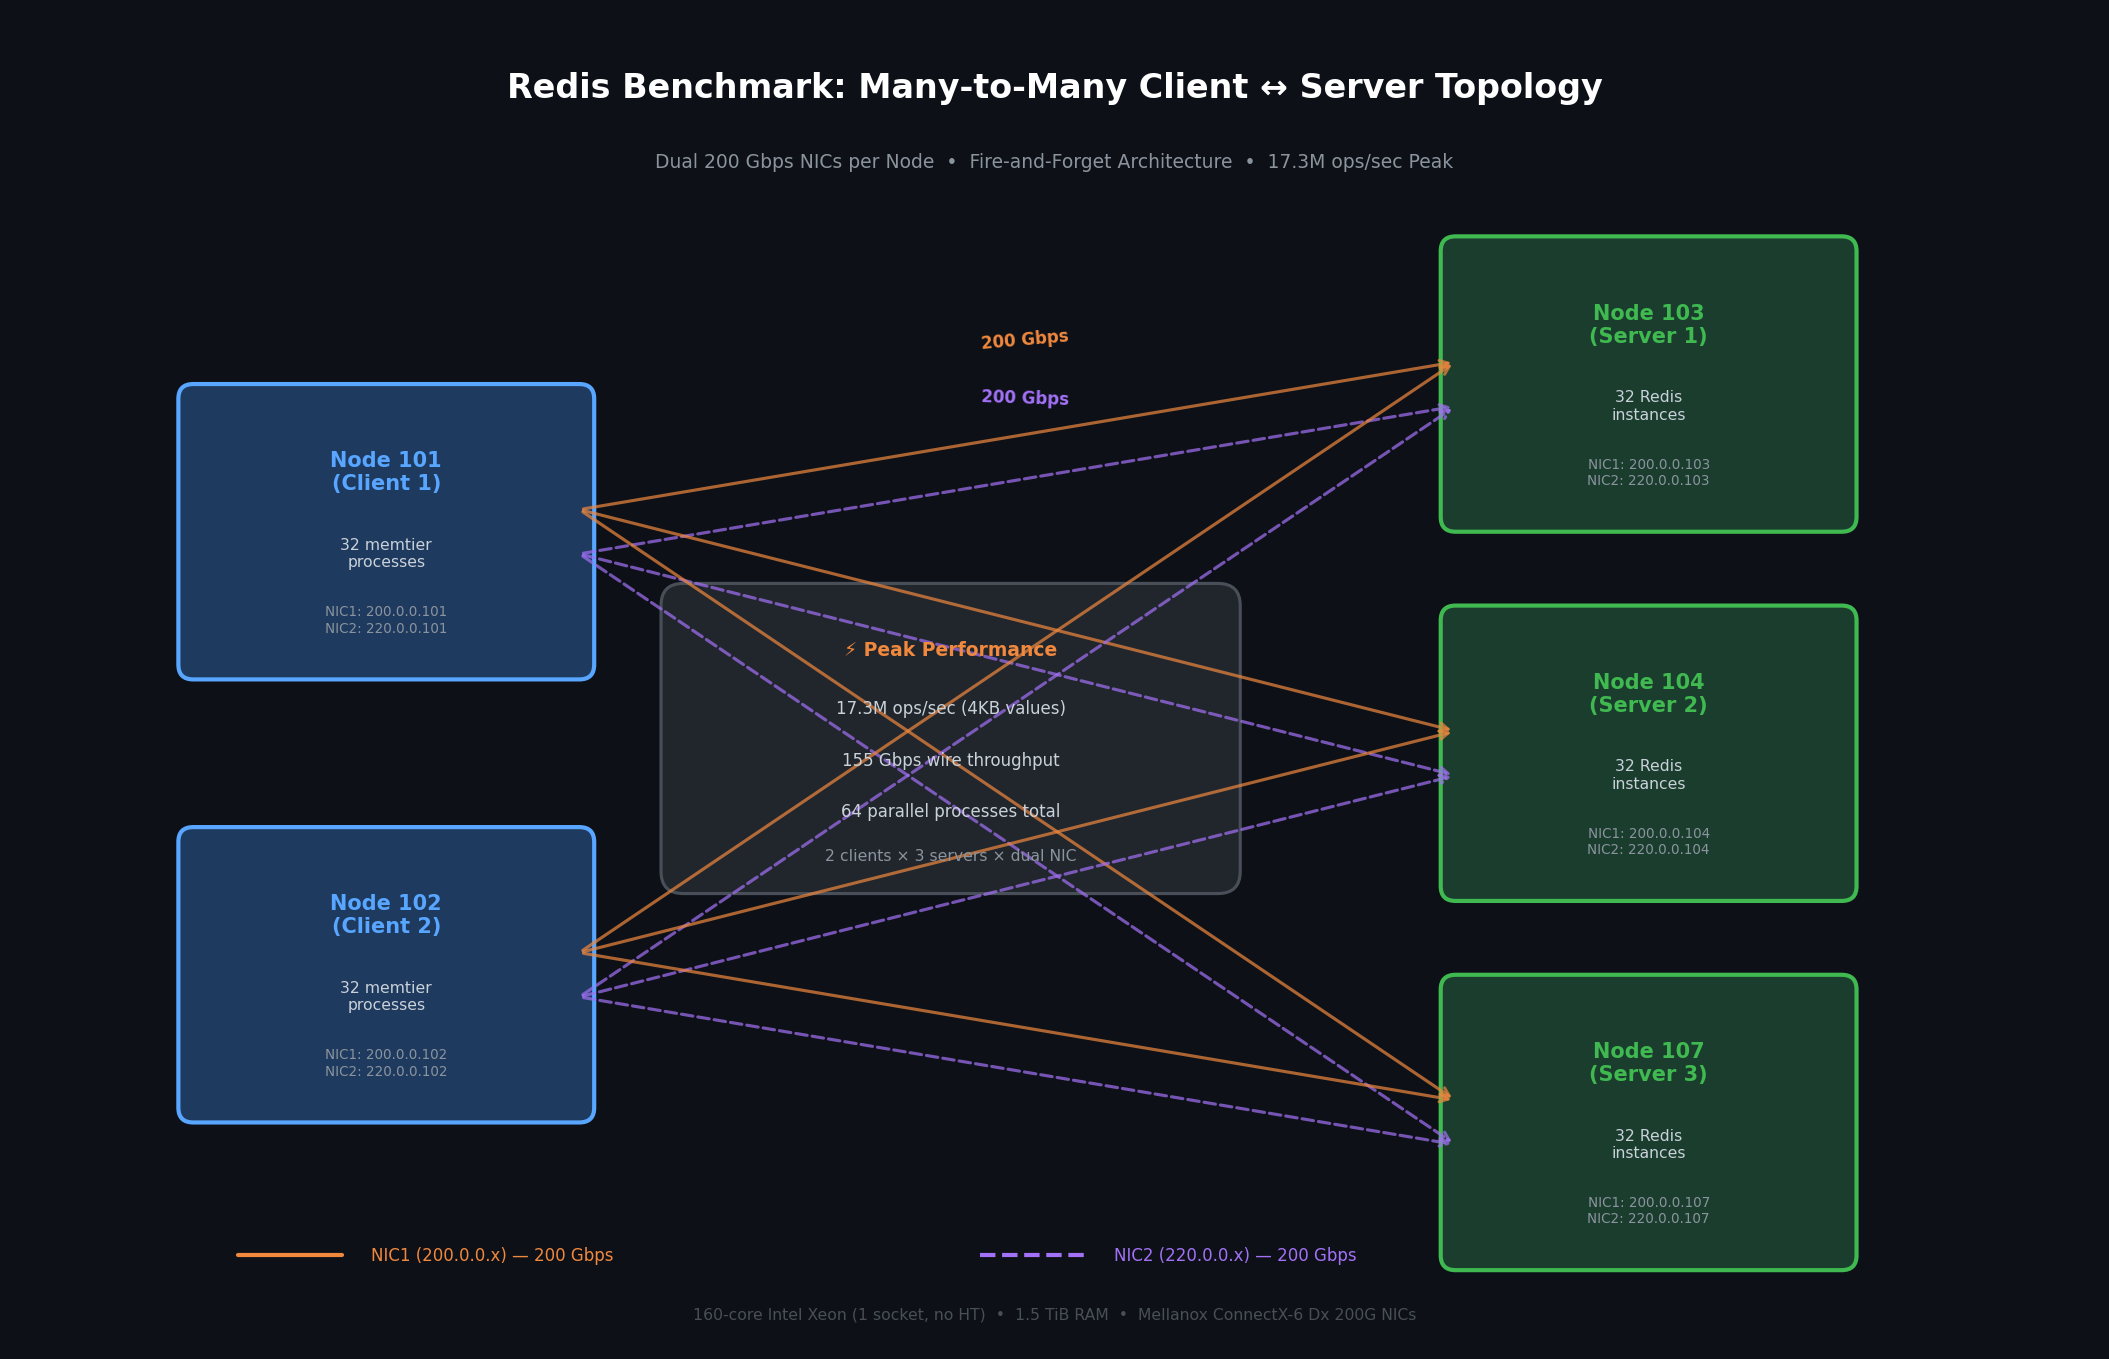
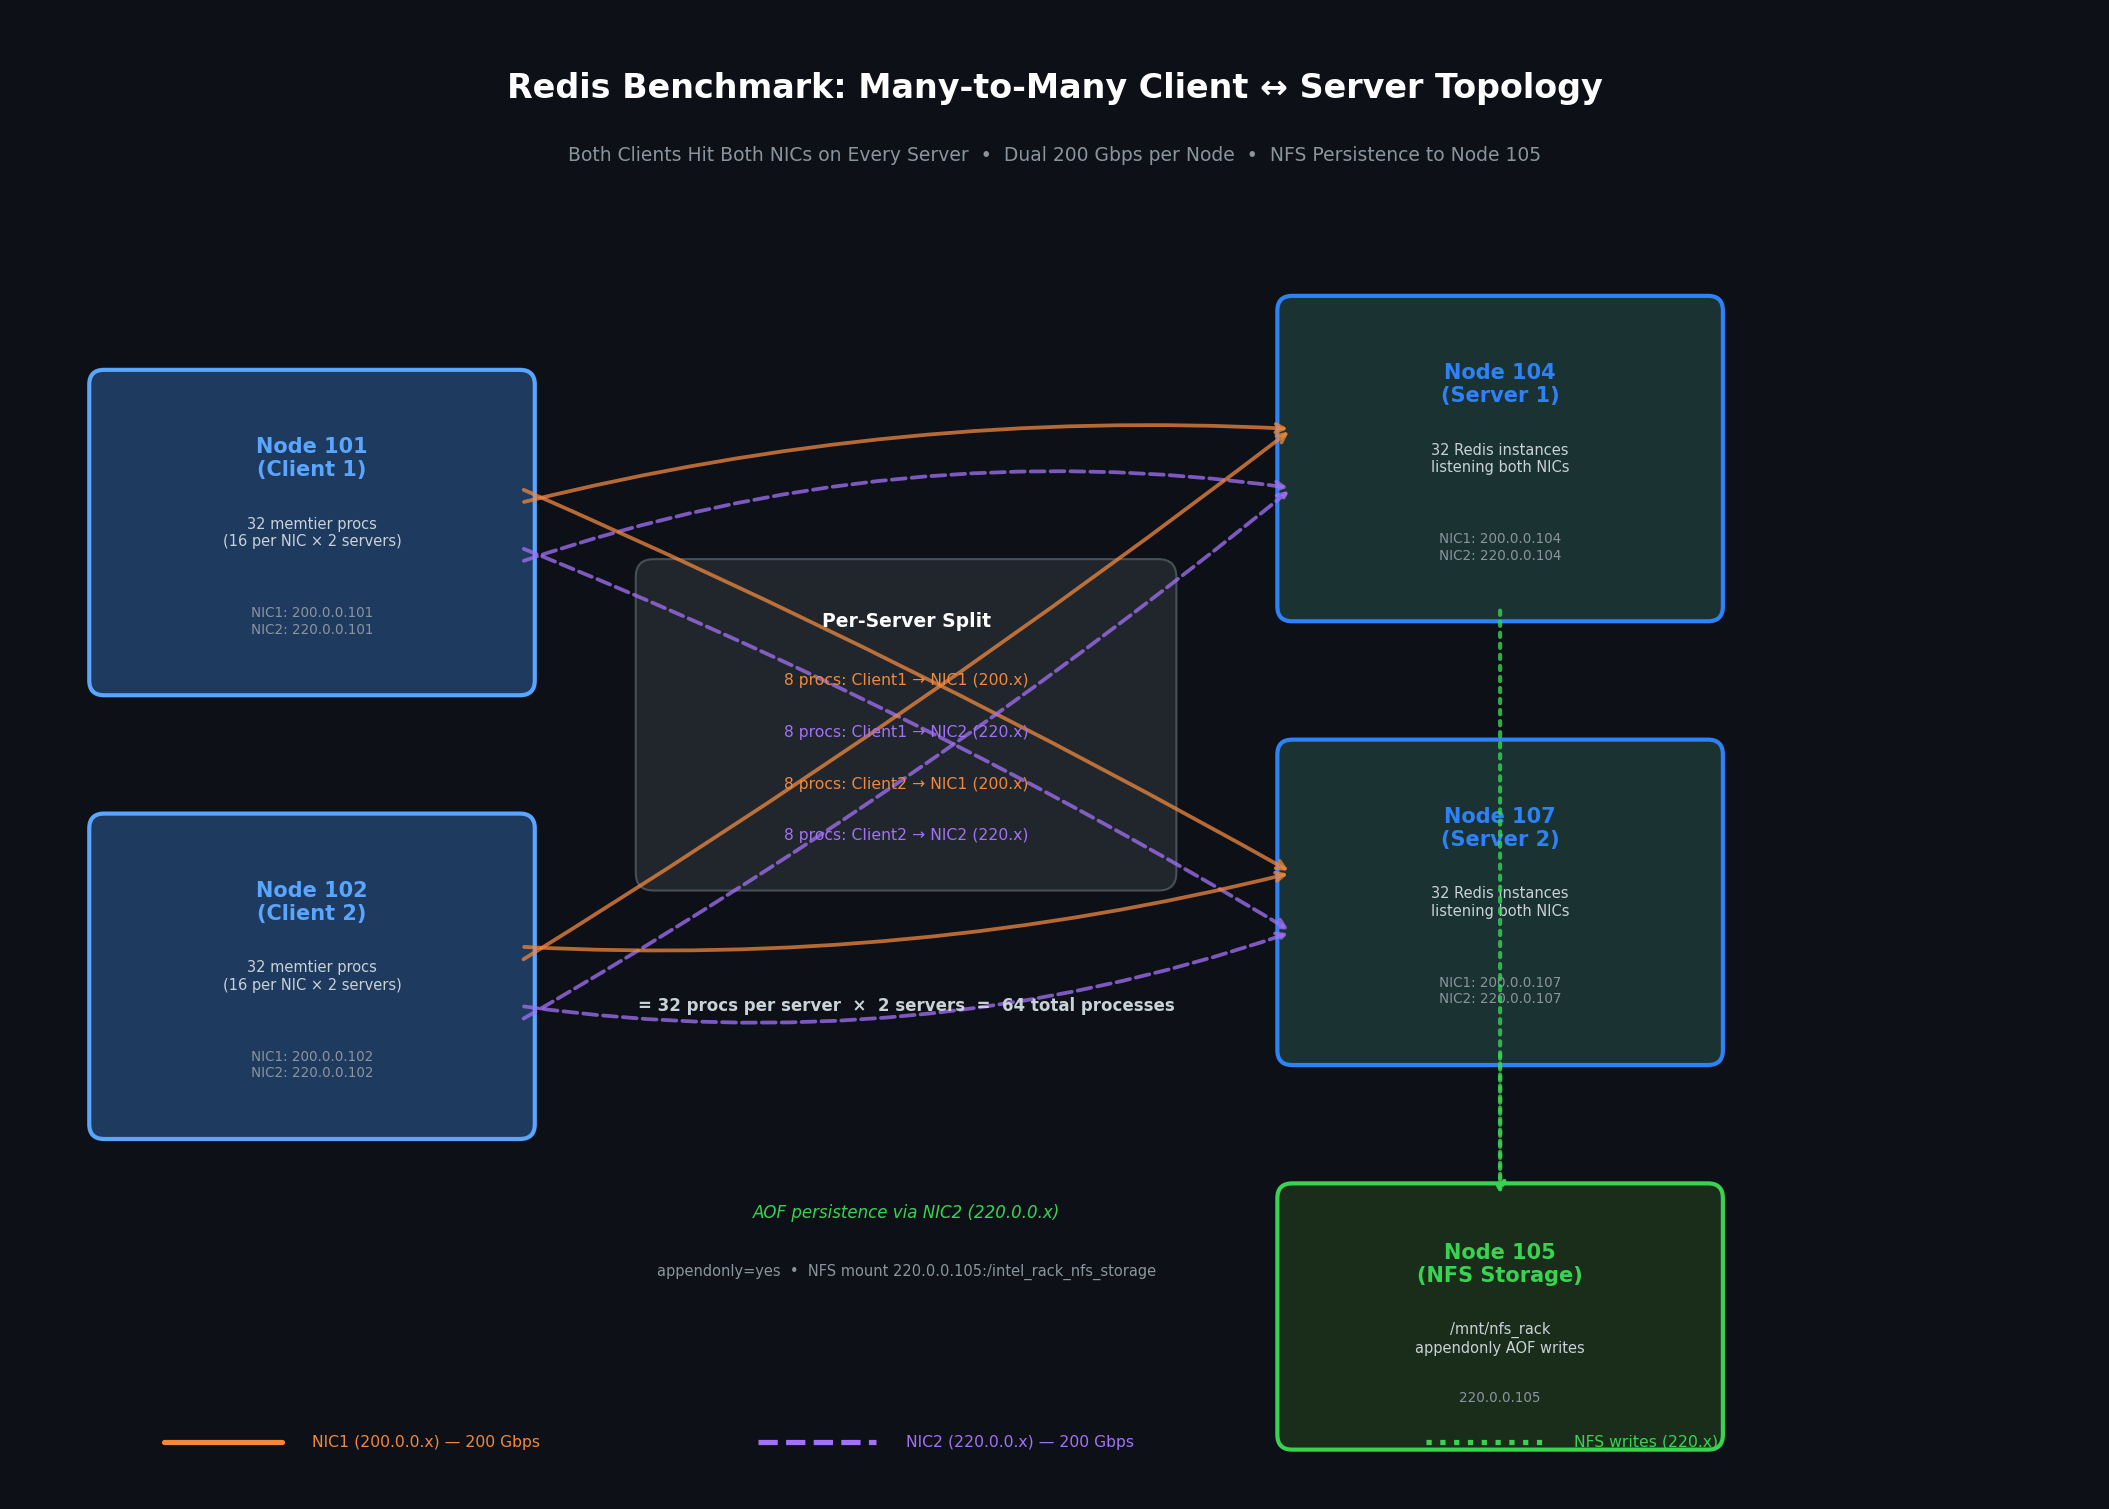
Update topology diagram: correct NIC split, add storage node 105

diff --git a/redis/diagrams/generate_topology.py b/redis/diagrams/generate_topology.py
@@ -1,97 +1,130 @@
 #!/usr/bin/env python3
-"""Generate a many-to-many Redis client-server topology diagram."""
+"""Generate a many-to-many Redis client-server topology diagram with storage."""
 
 import matplotlib.pyplot as plt
 import matplotlib.patches as mpatches
-from matplotlib.patches import FancyBboxPatch, FancyArrowPatch
+from matplotlib.patches import FancyBboxPatch
 import numpy as np
 
-fig, ax = plt.subplots(1, 1, figsize=(14, 9))
+fig, ax = plt.subplots(1, 1, figsize=(14, 10))
 ax.set_xlim(0, 14)
-ax.set_ylim(0, 9)
+ax.set_ylim(0, 10)
 ax.axis('off')
 ax.set_facecolor('#0d1117')
 fig.patch.set_facecolor('#0d1117')
 
 # Title
-ax.text(7, 8.5, 'Redis Benchmark: Many-to-Many Client ↔ Server Topology',
+ax.text(7, 9.5, 'Redis Benchmark: Many-to-Many Client \u2194 Server Topology',
         ha='center', va='center', fontsize=16, fontweight='bold', color='white')
-ax.text(7, 8.0, 'Dual 200 Gbps NICs per Node  •  Fire-and-Forget Architecture  •  17.3M ops/sec Peak',
+ax.text(7, 9.05, 'Both Clients Hit Both NICs on Every Server  \u2022  Dual 200 Gbps per Node  \u2022  NFS Persistence to Node 105',
         ha='center', va='center', fontsize=9, color='#8b949e')
 
 # Define nodes
 clients = [
-    {'name': 'Node 101\n(Client 1)', 'x': 2.5, 'y': 5.5, 'ip1': '200.0.0.101', 'ip2': '220.0.0.101', 'procs': '32 memtier\nprocesses'},
-    {'name': 'Node 102\n(Client 2)', 'x': 2.5, 'y': 2.5, 'ip1': '200.0.0.102', 'ip2': '220.0.0.102', 'procs': '32 memtier\nprocesses'},
+    {'name': 'Node 101\n(Client 1)', 'x': 2.0, 'y': 6.5, 'ip1': '200.0.0.101', 'ip2': '220.0.0.101',
+     'detail': '32 memtier procs\n(16 per NIC \u00d7 2 servers)'},
+    {'name': 'Node 102\n(Client 2)', 'x': 2.0, 'y': 3.5, 'ip1': '200.0.0.102', 'ip2': '220.0.0.102',
+     'detail': '32 memtier procs\n(16 per NIC \u00d7 2 servers)'},
 ]
 
 servers = [
-    {'name': 'Node 103\n(Server 1)', 'x': 11, 'y': 6.5, 'ip1': '200.0.0.103', 'ip2': '220.0.0.103', 'instances': '32 Redis\ninstances'},
-    {'name': 'Node 104\n(Server 2)', 'x': 11, 'y': 4.0, 'ip1': '200.0.0.104', 'ip2': '220.0.0.104', 'instances': '32 Redis\ninstances'},
-    {'name': 'Node 107\n(Server 3)', 'x': 11, 'y': 1.5, 'ip1': '200.0.0.107', 'ip2': '220.0.0.107', 'instances': '32 Redis\ninstances'},
+    {'name': 'Node 104\n(Server 1)', 'x': 10.0, 'y': 7.0, 'ip1': '200.0.0.104', 'ip2': '220.0.0.104',
+     'detail': '32 Redis instances\nlistening both NICs'},
+    {'name': 'Node 107\n(Server 2)', 'x': 10.0, 'y': 4.0, 'ip1': '200.0.0.107', 'ip2': '220.0.0.107',
+     'detail': '32 Redis instances\nlistening both NICs'},
 ]
+
+storage = {'name': 'Node 105\n(NFS Storage)', 'x': 10.0, 'y': 1.2, 'ip': '220.0.0.105',
+           'detail': '/mnt/nfs_rack\nappendonly AOF writes'}
+
+# Colors
+nic1_color = '#f0883e'  # orange for 200.x
+nic2_color = '#a371f7'  # purple for 220.x
+storage_color = '#39d353'  # green for storage
 
 # Draw client boxes
 for c in clients:
-    box = FancyBboxPatch((c['x'] - 1.3, c['y'] - 0.9), 2.6, 1.8,
+    box = FancyBboxPatch((c['x'] - 1.4, c['y'] - 1.0), 2.8, 2.0,
                          boxstyle="round,pad=0.1", facecolor='#1f3a5f', edgecolor='#58a6ff', linewidth=2)
     ax.add_patch(box)
-    ax.text(c['x'], c['y'] + 0.4, c['name'], ha='center', va='center', fontsize=10, fontweight='bold', color='#58a6ff')
-    ax.text(c['x'], c['y'] - 0.15, c['procs'], ha='center', va='center', fontsize=7.5, color='#c9d1d9')
+    ax.text(c['x'], c['y'] + 0.5, c['name'], ha='center', va='center', fontsize=10, fontweight='bold', color='#58a6ff')
+    ax.text(c['x'], c['y'] - 0.0, c['detail'], ha='center', va='center', fontsize=7, color='#c9d1d9')
     ax.text(c['x'], c['y'] - 0.6, f"NIC1: {c['ip1']}\nNIC2: {c['ip2']}", ha='center', va='center', fontsize=6.5, color='#8b949e')
 
 # Draw server boxes
 for s in servers:
-    box = FancyBboxPatch((s['x'] - 1.3, s['y'] - 0.9), 2.6, 1.8,
-                         boxstyle="round,pad=0.1", facecolor='#1a3d2e', edgecolor='#3fb950', linewidth=2)
+    box = FancyBboxPatch((s['x'] - 1.4, s['y'] - 1.0), 2.8, 2.0,
+                         boxstyle="round,pad=0.1", facecolor='#1a3332', edgecolor='#2f81f7', linewidth=2)
     ax.add_patch(box)
-    ax.text(s['x'], s['y'] + 0.4, s['name'], ha='center', va='center', fontsize=10, fontweight='bold', color='#3fb950')
-    ax.text(s['x'], s['y'] - 0.15, s['instances'], ha='center', va='center', fontsize=7.5, color='#c9d1d9')
+    ax.text(s['x'], s['y'] + 0.5, s['name'], ha='center', va='center', fontsize=10, fontweight='bold', color='#2f81f7')
+    ax.text(s['x'], s['y'] - 0.0, s['detail'], ha='center', va='center', fontsize=7, color='#c9d1d9')
     ax.text(s['x'], s['y'] - 0.6, f"NIC1: {s['ip1']}\nNIC2: {s['ip2']}", ha='center', va='center', fontsize=6.5, color='#8b949e')
 
-# Draw connections (many-to-many)
-# NIC1 connections (200.x network) - solid orange
-# NIC2 connections (220.x network) - dashed cyan
-nic1_color = '#f0883e'  # orange for 200.x
-nic2_color = '#a371f7'  # purple for 220.x
+# Draw storage box
+box = FancyBboxPatch((storage['x'] - 1.4, storage['y'] - 0.8), 2.8, 1.6,
+                     boxstyle="round,pad=0.1", facecolor='#1a2d1a', edgecolor=storage_color, linewidth=2)
+ax.add_patch(box)
+ax.text(storage['x'], storage['y'] + 0.35, storage['name'], ha='center', va='center', fontsize=10, fontweight='bold', color=storage_color)
+ax.text(storage['x'], storage['y'] - 0.15, storage['detail'], ha='center', va='center', fontsize=7, color='#c9d1d9')
+ax.text(storage['x'], storage['y'] - 0.55, storage['ip'], ha='center', va='center', fontsize=6.5, color='#8b949e')
 
-for c in clients:
-    for s in servers:
-        # NIC1 (200.x) - upper connection
-        ax.annotate('', xy=(s['x'] - 1.3, s['y'] + 0.15),
-                    xytext=(c['x'] + 1.3, c['y'] + 0.15),
-                    arrowprops=dict(arrowstyle='->', color=nic1_color, lw=1.5, alpha=0.7))
-        # NIC2 (220.x) - lower connection
-        ax.annotate('', xy=(s['x'] - 1.3, s['y'] - 0.15),
-                    xytext=(c['x'] + 1.3, c['y'] - 0.15),
-                    arrowprops=dict(arrowstyle='->', color=nic2_color, lw=1.5, alpha=0.7,
-                                    linestyle='dashed'))
+# Draw connections: Client -> Server (both NICs from each client to each server)
+for ci, c in enumerate(clients):
+    for si, s in enumerate(servers):
+        y_off_nic1 = 0.2
+        y_off_nic2 = -0.2
 
-# Network labels in the middle
-ax.text(6.8, 6.8, '200 Gbps', ha='center', va='center', fontsize=8, color=nic1_color, fontweight='bold', rotation=5)
-ax.text(6.8, 6.4, '200 Gbps', ha='center', va='center', fontsize=8, color=nic2_color, fontweight='bold', rotation=-2)
+        # NIC1 (200.x) connections - solid orange
+        ax.annotate('', xy=(s['x'] - 1.4, s['y'] + y_off_nic1),
+                    xytext=(c['x'] + 1.4, c['y'] + y_off_nic1 + (si - ci) * 0.1),
+                    arrowprops=dict(arrowstyle='->', color=nic1_color, lw=1.8, alpha=0.75,
+                                    connectionstyle=f'arc3,rad={0.05 * (ci*2 + si - 1.5)}'))
 
-# Legend
-legend_y = 0.6
-ax.plot([1.5, 2.2], [legend_y, legend_y], color=nic1_color, lw=2, solid_capstyle='round')
-ax.text(2.4, legend_y, 'NIC1 (200.0.0.x) — 200 Gbps', va='center', fontsize=8, color=nic1_color)
+        # NIC2 (220.x) connections - dashed purple
+        ax.annotate('', xy=(s['x'] - 1.4, s['y'] + y_off_nic2),
+                    xytext=(c['x'] + 1.4, c['y'] + y_off_nic2 + (si - ci) * 0.1),
+                    arrowprops=dict(arrowstyle='->', color=nic2_color, lw=1.8, alpha=0.75,
+                                    linestyle='dashed',
+                                    connectionstyle=f'arc3,rad={0.08 * (ci*2 + si - 1.5)}'))
 
-ax.plot([6.5, 7.2], [legend_y, legend_y], color=nic2_color, lw=2, linestyle='dashed')
-ax.text(7.4, legend_y, 'NIC2 (220.0.0.x) — 200 Gbps', va='center', fontsize=8, color=nic2_color)
+# Draw storage connections: Servers -> NFS (via 220.x / NIC2)
+for s in servers:
+    ax.annotate('', xy=(storage['x'], storage['y'] + 0.8),
+                xytext=(s['x'], s['y'] - 1.0),
+                arrowprops=dict(arrowstyle='->', color=storage_color, lw=2.0, alpha=0.8,
+                                linestyle='dotted',
+                                connectionstyle='arc3,rad=0'))
 
-# Stats box
-stats_box = FancyBboxPatch((4.5, 3.2), 3.6, 1.8,
-                           boxstyle="round,pad=0.15", facecolor='#21262d', edgecolor='#484f58', linewidth=1.5)
-ax.add_patch(stats_box)
-ax.text(6.3, 4.7, '⚡ Peak Performance', ha='center', va='center', fontsize=9, fontweight='bold', color='#f0883e')
-ax.text(6.3, 4.3, '17.3M ops/sec (4KB values)', ha='center', va='center', fontsize=8, color='#c9d1d9')
-ax.text(6.3, 3.95, '155 Gbps wire throughput', ha='center', va='center', fontsize=8, color='#c9d1d9')
-ax.text(6.3, 3.6, '64 parallel processes total', ha='center', va='center', fontsize=8, color='#c9d1d9')
-ax.text(6.3, 3.3, '2 clients × 3 servers × dual NIC', ha='center', va='center', fontsize=7.5, color='#8b949e')
+# Annotation: how it splits
+split_box = FancyBboxPatch((4.3, 4.2), 3.4, 2.0,
+                           boxstyle="round,pad=0.12", facecolor='#21262d', edgecolor='#484f58', linewidth=1)
+ax.add_patch(split_box)
+ax.text(6.0, 5.9, 'Per-Server Split', ha='center', va='center', fontsize=9, fontweight='bold', color='white')
+ax.text(6.0, 5.5, '8 procs: Client1 \u2192 NIC1 (200.x)', ha='center', va='center', fontsize=7.5, color=nic1_color)
+ax.text(6.0, 5.15, '8 procs: Client1 \u2192 NIC2 (220.x)', ha='center', va='center', fontsize=7.5, color=nic2_color)
+ax.text(6.0, 4.8, '8 procs: Client2 \u2192 NIC1 (200.x)', ha='center', va='center', fontsize=7.5, color=nic1_color)
+ax.text(6.0, 4.45, '8 procs: Client2 \u2192 NIC2 (220.x)', ha='center', va='center', fontsize=7.5, color=nic2_color)
 
-# Hardware label
-ax.text(7, 0.2, '160-core Intel Xeon (1 socket, no HT)  •  1.5 TiB RAM  •  Mellanox ConnectX-6 Dx 200G NICs',
-        ha='center', va='center', fontsize=7.5, color='#484f58')
+# NFS annotation
+ax.text(6.0, 1.9, 'AOF persistence via NIC2 (220.0.0.x)',
+        ha='center', va='center', fontsize=8, color=storage_color, fontstyle='italic')
+ax.text(6.0, 1.5, 'appendonly=yes  \u2022  NFS mount 220.0.0.105:/intel_rack_nfs_storage',
+        ha='center', va='center', fontsize=7, color='#8b949e')
+
+# Legend at bottom
+legend_y = 0.35
+ax.plot([1.0, 1.8], [legend_y, legend_y], color=nic1_color, lw=2.5, solid_capstyle='round')
+ax.text(2.0, legend_y, 'NIC1 (200.0.0.x) \u2014 200 Gbps', va='center', fontsize=7.5, color=nic1_color)
+
+ax.plot([5.0, 5.8], [legend_y, legend_y], color=nic2_color, lw=2.5, linestyle='dashed')
+ax.text(6.0, legend_y, 'NIC2 (220.0.0.x) \u2014 200 Gbps', va='center', fontsize=7.5, color=nic2_color)
+
+ax.plot([9.5, 10.3], [legend_y, legend_y], color=storage_color, lw=2.5, linestyle='dotted')
+ax.text(10.5, legend_y, 'NFS writes (220.x)', va='center', fontsize=7.5, color=storage_color)
+
+# Totals
+ax.text(6.0, 3.3, '= 32 procs per server  \u00d7  2 servers  =  64 total processes',
+        ha='center', va='center', fontsize=8, fontweight='bold', color='#c9d1d9')
 
 plt.tight_layout(pad=0.5)
 plt.savefig('/root/rack-scaling-benchmarks/redis/diagrams/redis_topology.png', dpi=150, bbox_inches='tight',